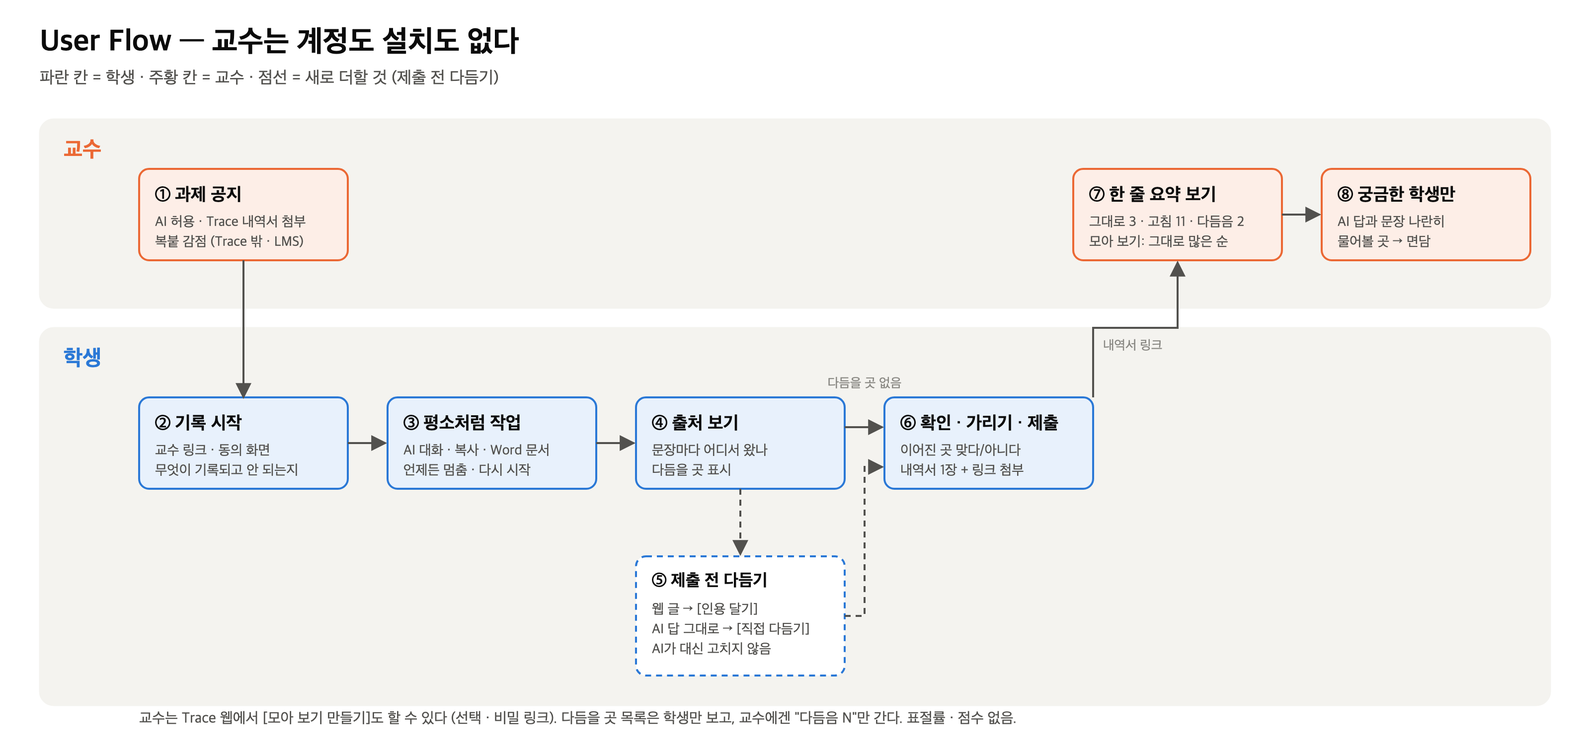
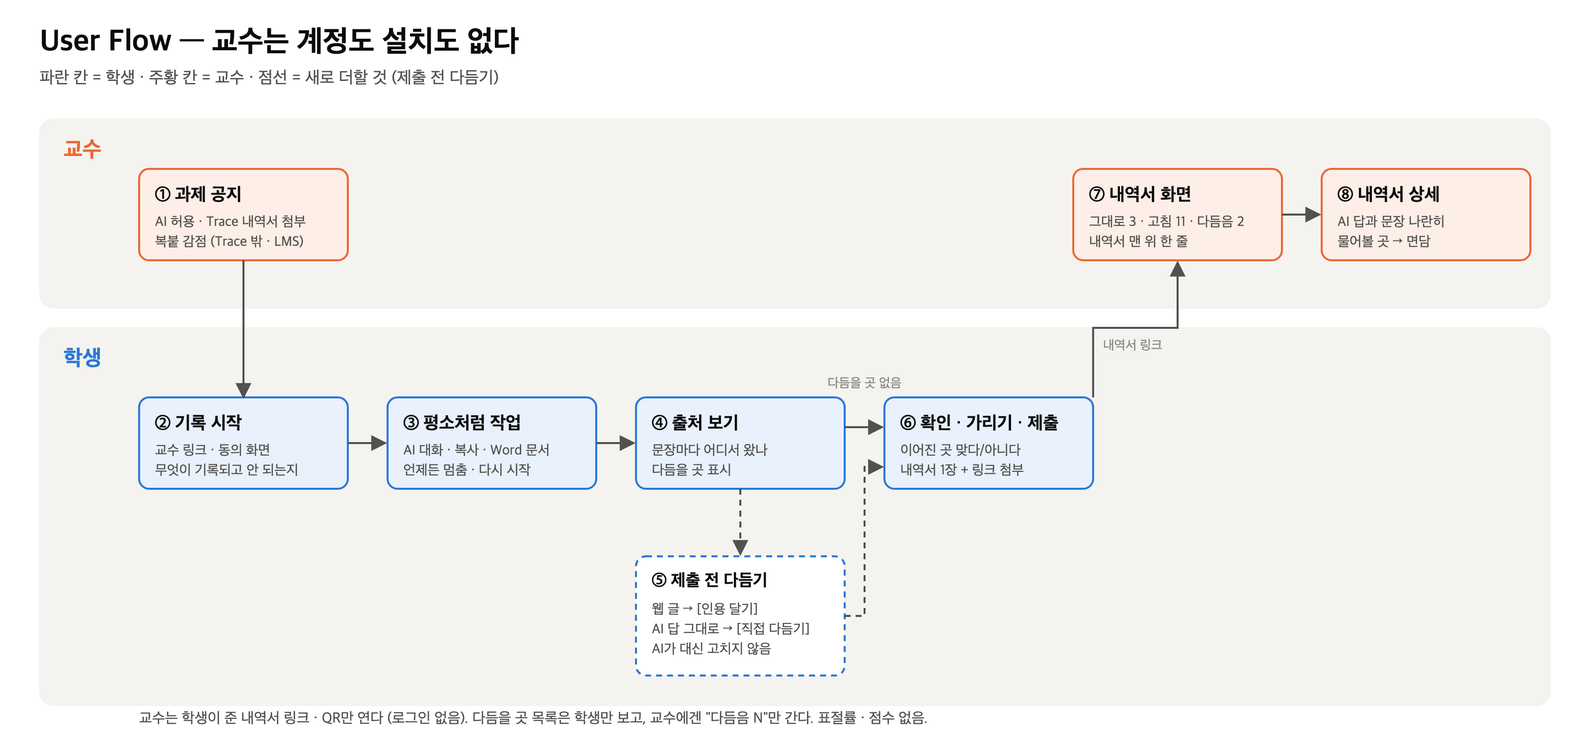
모아 보기를 다음 단계로 · 교수 화면 = 내역서 화면 · 내역서 상세
- 교수는 학생이 준 내역서 링크 · QR을 하나씩 엶 (LMS 연동 불필요, 모아 보기는 과제 링크 방식으로 설계만)
- 검토 과업 P1(링크 만들기) 빼고 P1~P5로 · 가짜 데이터 5명
- ERD: assignments · works.assignment_id 점선(다음 단계) · User Flow · 구조도 글자

diff --git a/2-디자인/발표 그림/figs.py b/2-디자인/발표 그림/figs.py
@@ -62,8 +62,8 @@ def user_flow():
 
     # 교수
     b += step(140, 170, "①", "과제 공지", ["AI 허용 · Trace 내역서 첨부", "복붙 감점 (Trace 밖 · LMS)"], ORANGE, ORANGE_BG)
-    b += step(1080, 170, "⑦", "한 줄 요약 보기", ["그대로 3 · 고침 11 · 다듬음 2", "모아 보기: 그대로 많은 순"], ORANGE, ORANGE_BG)
-    b += step(1330, 170, "⑧", "궁금한 학생만", ["AI 답과 문장 나란히", "물어볼 곳 → 면담"], ORANGE, ORANGE_BG)
+    b += step(1080, 170, "⑦", "내역서 화면", ["그대로 3 · 고침 11 · 다듬음 2", "내역서 맨 위 한 줄"], ORANGE, ORANGE_BG)
+    b += step(1330, 170, "⑧", "내역서 상세", ["AI 답과 문장 나란히", "물어볼 곳 → 면담"], ORANGE, ORANGE_BG)
     # 학생
     y1 = 400
     b += step(140, y1, "②", "기록 시작", ["교수 링크 · 동의 화면", "무엇이 기록되고 안 되는지"], BLUE, BLUE_BG)
@@ -86,7 +86,7 @@ def user_flow():
     b += arrow(1290, 216, 1328, 216)                  # ⑦→⑧
     b += text(1110, 352, "내역서 링크", 13, MUTED)
     # 비고
-    b += text(140, 728, "교수는 Trace 웹에서 [모아 보기 만들기]도 할 수 있다 (선택 · 비밀 링크). 다듬을 곳 목록은 학생만 보고, 교수에겐 \"다듬음 N\"만 간다. 표절률 · 점수 없음.", 15, INK2)
+    b += text(140, 728, "교수는 학생이 준 내역서 링크 · QR만 연다 (로그인 없음). 다듬을 곳 목록은 학생만 보고, 교수에겐 \"다듬음 N\"만 간다. 표절률 · 점수 없음.", 15, INK2)
     return svg(W, H, b)
 
 
@@ -125,7 +125,7 @@ def architecture():
     b += box(820, 300, 360, 250, SURF, INK2, sw=2, r=16)
     b += text(844, 340, "서버", 24, INK, 700)
     b += text(910, 340, "Flask · Render (싱가포르)", 16, INK2)
-    b += lines(844, 378, ["· 로그인 (구글 · 카카오)", "· 해시 다시 계산 → 조작 확인", "· 내역서 PDF (reportlab)", "· 교수 확인 링크 (읽기 전용)", "· 모아 보기 (만들 것)"], 17, INK, 30)
+    b += lines(844, 378, ["· 로그인 (구글 · 카카오)", "· 해시 다시 계산 → 조작 확인", "· 내역서 PDF (reportlab)", "· 교수 확인 링크 (읽기 전용)"], 17, INK, 30)
 
     # DB
     b += box(820, 640, 360, 130, SURF, INK2, sw=2, r=16)
@@ -160,14 +160,22 @@ def architecture():
 # ───────────────────────── 3. ERD ─────────────────────────
 def erd():
     W, H = 1640, 1000
-    b = text(40, 52, "ERD — 지금 테이블에 3가지만 더한다", 30, weight=700)
-    b += text(40, 84, "회색 = 지금 있음 · 파란 칸 = 새로 더함 · 1 ── N = 하나가 여러 개를 가짐", 17, INK2)
+    b = text(40, 52, "ERD — 지금 테이블에 2가지만 더한다", 30, weight=700)
+    b += text(40, 84, "회색 = 지금 있음 · 파란 칸 = 새로 더함 · 점선 = 다음 단계 · 1 ── N = 하나가 여러 개를 가짐", 17, INK2)
     HD, RH, BW = 40, 26, 270
     pos = {}
 
-    def table(key, x, y, name, rows, new=False, new_rows=()):
-        h = HD + RH * (len(rows) + len(new_rows)) + 12
+    def table(key, x, y, name, rows, new=False, new_rows=(), nxt=False, next_rows=()):
+        h = HD + RH * (len(rows) + len(new_rows) + len(next_rows)) + 12
         c = BLUE if new else INK2
+        if nxt:
+            s = box(x, y, BW, h, SURF, MUTED, True, sw=1.5, r=8)
+            s += text(x + 14, y + 27, name, 18, MUTED, 700)
+            s += text(x + BW - 14, y + 27, "다음 단계", 14, MUTED, 700, "end")
+            for i, r in enumerate(rows):
+                s += text(x + 14, y + HD + 20 + i * RH, r, 14, MUTED)
+            pos[key] = (x, y, BW, h)
+            return s
         s = box(x, y, BW, h, SURF, BLUE if new else LINE, sw=2 if new else 1.5, r=8)
         s += f'<rect x="{x}" y="{y}" width="{BW}" height="{HD}" rx="8" fill="{BLUE_BG if new else PANEL}"/>\n'
         s += f'<rect x="{x}" y="{y+HD-8}" width="{BW}" height="8" fill="{BLUE_BG if new else PANEL}"/>\n'
@@ -180,13 +188,16 @@ def erd():
             yy = y + HD + 20 + (len(rows) + j) * RH
             s += f'<rect x="{x+6}" y="{yy-17}" width="{BW-12}" height="{RH-2}" rx="4" fill="{BLUE_BG}"/>\n'
             s += text(x + 14, yy, r + "  (새로)", 14, BLUE, 700)
+        for j, r in enumerate(next_rows):
+            yy = y + HD + 20 + (len(rows) + len(new_rows) + j) * RH
+            s += text(x + 14, yy, r + "  (다음 단계)", 14, MUTED)
         pos[key] = (x, y, BW, h)
         return s
 
     b += table("users", 40, 130, "users 학생", ["id", "email · name", "google_sub · kakao_sub", "deleted_at"])
     b += table("auth", 40, 330, "tokens · devices · login_tickets", ["user_id", "로그인 토큰 · 기기 · 로그인 표"])
-    b += table("assign", 370, 130, "assignments 모아 보기", ["id · title · memo", "submit_token 학생용", "view_token_hash 교수용", "org (비워 둠) · created_at"], new=True)
-    b += table("works", 370, 400, "works 과제", ["id · user_id", "title · ai_scope", "deleted_at"], new_rows=["assignment_id"])
+    b += table("assign", 370, 130, "assignments 모아 보기", ["id · title · memo", "submit_token 학생용", "view_token_hash 교수용", "org (비워 둠) · created_at"], nxt=True)
+    b += table("works", 370, 400, "works 과제", ["id · user_id", "title · ai_scope", "deleted_at"], next_rows=["assignment_id"])
     b += table("sessions", 700, 130, "sessions 기록 한 번", ["id · work_id", "root · head (체인 끝)", "chain_len · integrity_ok", "sealed_at · verified"])
     b += table("events", 1030, 130, "events 기록 이벤트", ["session_id · id · seq", "type · ts", "payload (원문 대신 해시)", "server_h"])
     b += table("bc", 1310, 130, "batches · contexts", ["session_id", "받은 묶음 · 작업 맥락"])
@@ -214,7 +225,7 @@ def erd():
 
     b += rel("users", "auth", "b", "t")
     b += rel("users", "works", "r", "l", 20, -20)
-    b += rel("assign", "works", "b", "t", 0, 0, BLUE)
+    b += rel("assign", "works", "b", "t", 0, 0, MUTED)
     b += rel("works", "sessions", "r", "l", -30, 0)
     b += rel("sessions", "events", "r", "l")
     b += rel("works", "st", "r", "l", 20, 0)
@@ -232,7 +243,7 @@ def erd():
         b += f'<path d="M{tx+tw/2},{ty+th} L{tx+tw/2},730 L{1610},730 L{1610},{ky+kh/2} L{kx+kw},{ky+kh/2}" fill="none" stroke="{INK2}" stroke-width="1.8"/>\n'
         b += text(kx + kw + 4, ky + kh / 2 - 6, "N", 14, INK2, 700)
     b += text(tx + tw / 2 + 6, ty + th + 20, "1", 14, INK2, 700)
-    b += lines(40, 860, ["더하는 것 3가지", "· assignments: 모아 보기. 교수 계정 대신 비밀 토큰이 열쇠", "· works.assignment_id · statements.retain_until (보관 기간)", "· checks: 교수에게 가는 \"다듬음 N\"을 센다. 원문 · 고친 문장은 넣지 않음 (PC에 남음)"], 16, INK2, 26)
+    b += lines(40, 860, ["더하는 것 2가지", "· statements.retain_until: 보관 기간", "· checks: 교수에게 가는 \"다듬음 N\"을 센다. 원문 · 고친 문장은 넣지 않음 (PC에 남음)", "· (다음 단계) assignments · works.assignment_id: 30명 모아 보기"], 16, INK2, 26)
     return svg(W, H, b)
 
 

diff --git a/2-디자인/피그마 화면 구성 (2026-10-29).md b/2-디자인/피그마 화면 구성 (2026-10-29).md
@@ -1,8 +1,8 @@
 # 피그마 화면 구성 — 중간발표 · 팀 내부 검토용
 
 > 기준: 지금 앱 v0.1.13 화면 (`Trace 와이어프레임 (2026-10-19).pdf`) + v2.2 다듬기. 색 · 글꼴은 `디자인 기준 v2.html`.
-> 가짜 데이터는 `팀 내부 검토 키트` 1절과 같게 (이서연 · 김민준 · 박지호 · 최유나 · 정하준 + 25명).
-> ★ = 슬라이드 7 · 8장에 캡처로 들어가는 6개. 나머지는 검토 과업을 끝까지 하려면 필요한 화면.
+> 가짜 데이터는 `팀 내부 검토 키트` 1절과 같게 (이서연 · 김민준 · 박지호 · 최유나 · 정하준).
+> ★ = 슬라이드 7 · 8장에 캡처로 들어가는 5개. 나머지는 검토 과업을 끝까지 하려면 필요한 화면.
 > **10/31 바뀜 (기획서 v2.2):** 따로 있던 "점검 · 고쳐 쓰기" 단계를 없애고, **출처 보기 화면에 다듬기를 더한다.** 표절 기준 · 참고문헌 확인은 논문용 다음 단계라 피그마에서 뺀다.
 
 ## 0. 학생 단계는 그대로 4개
@@ -10,6 +10,8 @@
 ```
 기록 → 출처 보기 · 다듬기 → 연결 확인 → 내역서
 ```
+
+> **10/31 바뀜 (2):** 30명 모아 보기는 다음 단계. 교수 화면은 **내역서 화면 · 내역서 상세** 2개.
 
 **다듬기는 출처 보기 안에서.** 학생이 다듬을 곳을 먼저 고치고, 고친 뒤의 문장으로 연결을 확인한다. 단계 수가 늘지 않는다.
 
@@ -29,7 +31,7 @@
 ### ★ S-2 출처 보기 · 다듬기 (지금 화면 + 더함) — 과업 S4b · S4c
 ```
 ┌ 문장마다 어디서 왔나: AI 답 그대로 3 · 고침 9 · 웹 글 2 · 쓴 과정 기록 없음 0 · 출처 기록 없음 92 ─────────┐
-│ 다듬을 곳 3  [모아 보기]                                    다듬음 0 → 3                        │
+│ 다듬을 곳 3  [전부 보기]                                    다듬음 0 → 3                        │
 ├──────────────────────────────────────┬───────────────────────────────────────────────────┤
 │ 보고서 (다듬을 곳은 옅은 노랑 밑줄)          │ 이 문장은 ChatGPT 10/18 14:20 답을 그대로 붙였어요.          │
 │                                      │ 그대로 써도 내역서에 공개돼요. (교수님 규칙: 복붙 감점)       │
@@ -51,7 +53,7 @@
 
 ### ★ S-4 제출 전 확인 · 가리기 — 과업 S4 · S5
 - 왼쪽: 내역서에 들어갈 대화 목록 · **친구 전화번호가 있는 대화** → [가리기]
-- 오른쪽: **"교수님께 보이는 모습" 미리보기** (여기서 고른 그대로 P-2가 보임). "다듬음 3"이 보이고, **다듬을 곳 목록은 안 보인다**는 게 드러나야 함
+- 오른쪽: **"교수님께 보이는 모습" 미리보기** (여기서 고른 그대로 P-1 내역서 화면이 보임). "다듬음 3"이 보이고, **다듬을 곳 목록은 안 보인다**는 게 드러나야 함
 - 맨 아래: 보이지 않는 것 한 줄 (가린 내용 · 다른 탭 · 키 내용 · 화면 · 다듬을 곳 목록)
 - 버튼: [내역서 만들기] → 완료 화면 (PDF · 교수 링크 복사)
 
@@ -59,29 +61,21 @@
 
 ## 2. 교수 화면 (웹 · 1440 × 900 · 로그인 없음)
 
-### P-0 모아 보기 만들기 — 과업 P1
-- 입력: 과제 제목 · 메모(허용 범위)
-- 결과 **링크 2개를 확실히 다르게**: 🔗 학생에게 보낼 **제출 링크** (공지에 붙이기) / 🔒 교수용 **보기 링크** ("다른 사람에게 보내지 마세요")
+교수는 학생이 준 **내역서 링크 · QR을 하나씩 연다.** 30명 모아 보기는 다음 단계라 그리지 않는다.
 
-### ★ P-1 모아 보기 30명 — 과업 P2
-| 학생 | 그대로 쓴 곳 | 고친 곳 | 다듬음 | 쓴 과정 기록 없음 | 직접 타이핑 (이어진 AI 없음) | 쓴 AI |
-|---|---|---|---|---|---|---|
-- 정렬은 **2개만**: [그대로 쓴 곳 많은 순] (기본) / [쓴 과정 기록 없음 많은 순]
-- "쓴 과정 기록 없음"은 회색 빗금 칸, "직접 타이핑"은 흰 칸 → 둘이 절대 같은 모양이면 안 됨
-- "다듬음"은 좋은 쪽 숫자 — 강조하지 않고 그냥 숫자로
-- 점수 · 등급 · 표절률 · 빨간 표시 없음. 행을 누르면 P-2
-- 비교용으로 **PDF 낱장 30개 버전**도 하나 (기존 내역서 PDF 캡처를 줄 세워 둔 프레임) — P2 시간 재기용
-
-### ★ P-2 학생 한 명 내역서 (맨 위 한 줄) — 과업 P3 · P5 · P6
-- 맨 위 한 줄 (가장 크게): **그대로 7 · 고침 2 · 쓴 과정 기록 없음 0자 · 다듬음 0** + "✓ 서버 기록과 일치"
+### ★ P-1 내역서 화면 — 과업 P1 · P2 · P4 · P5
+- 지금 앱의 교수 링크 화면(와이어프레임 5번 "AI 활용 내역서")을 바탕으로
+- **맨 위 한 줄 (가장 크게):** 그대로 7 · 고침 2 · 쓴 과정 기록 없음 0자 · 다듬음 0 + "✓ 서버 기록과 일치"
 - 그 아래 접힌 칸: 학생 설명 2개 · 작업 시간 · 쓴 AI
-- 문단 목록 (색 띠): 그대로 / 고침 / 쓴 과정 기록 없음 (빗금) / 직접 타이핑 (흰색) · 다듬은 문장엔 작은 "제출 전 직접 다듬음"
+- 문단 목록 (색 띠): 그대로 / 고침 / 쓴 과정 기록 없음 (회색 빗금) / 직접 타이핑 (흰색) · 다듬은 문장엔 작은 "제출 전 직접 다듬음"
 - 김민준 5번째 문단 옆 **작성 모양** (회색 글씨 · 아이콘 없음): "4분 동안 2초 넘게 멈춘 적 없음 · 고침 0회 · 한 번에 1,100자"
 - 박지호: "열 때부터 있던 글 1,200자 · 쓴 과정 기록 없음 — 출처를 알 수 없어요"
 - 맨 아래 **물어볼 곳** 2~3개 (예: "5번째 문단은 어떻게 썼나요?")
 - 와이어프레임의 **"그대로 (96%)"**는 가져오지 않는다 → "그대로"만
+- **5명 분** (김민준 · 박지호 · 이서연 · 최유나 · 정하준) 프레임을 만든다 — 과업 P1에서 하나씩 열어 본다
 
-### ★ P-3 나란히 보기 — 과업 P4
+### ★ P-2 내역서 상세 (나란히 보기) — 과업 P3
+- P-1에서 문단을 누르면 열림
 - 왼쪽 보고서 문장 · 오른쪽 AI 답 원문, 같은 부분 같은 색
 - 위: 질문 원문 · 도구 · 시각 · "기록과 일치"
 - 아래: 들어온 길 (14:21 ChatGPT에서 복사 → 14:22 Word 3문단에 붙여넣기 → 14:25 한 단어 고침)
@@ -97,22 +91,21 @@
 | S-2 | 웹 글 [인용 달기] · AI 답 [직접 다듬기] ×2 | 상태 바뀜 · 위 숫자 "다듬음 0 → 1 → 2 → 3" |
 | S-3 | 틀린 연결 [아니다] | 그 줄이 "아니다"로 |
 | S-4 | 친구 번호 대화 [가리기] → [내역서 만들기] | 완료 화면 |
-| P-0 | [만들기] | 링크 2개 |
-| P-1 | 정렬 버튼 · 김민준 행 | 순서 바뀜 · P-2 |
-| P-2 | 3번째 문단 | P-3 |
+| P-1 | 김민준 3번째 문단 | P-2 |
+| P-2 | [← 내역서] | P-1 |
 
 ## 4. 화면마다 원칙 확인 (검토 키트 체크리스트)
 
 - [ ] 점수 · 퍼센트 · 표절률 · 등급처럼 보이는 것이 없다 (와이어프레임의 "96%"를 가져오지 않았나)
-- [ ] "쓴 과정 기록 없음"과 "직접 타이핑"이 다르게 보인다 (S-2 · P-1 · P-2)
+- [ ] "쓴 과정 기록 없음"과 "직접 타이핑"이 다르게 보인다 (S-2 · P-1)
 - [ ] 다듬을 곳이 "걸림" · 빨간색 · 경고로 보이지 않는다 · AI가 대신 고치는 버튼이 없다 (S-2)
 - [ ] 다듬을 곳 목록은 교수에게 안 간다는 게 학생에게 보인다 (S-4)
-- [ ] 작성 모양이 경고처럼 보이지 않는다 (P-2)
+- [ ] 작성 모양이 경고처럼 보이지 않는다 (P-1)
 - [ ] 학생 화면이 감시처럼 보이지 않는다 (S-0 · S-1)
 
 ## 만드는 순서 (내일 ~ 4일째)
 
-1. **S-2 다듬기**, **P-1 모아 보기**, **P-2 한 줄** 먼저 — 바뀌는 화면이고 발표 핵심
-2. S-0 · S-4 · P-0 · P-3
+1. **S-2 다듬기**, **P-1 내역서 화면** 먼저 — 바뀌는 화면이고 발표 핵심
+2. S-0 · S-4 · P-2
 3. S-1 · S-3은 지금 화면 캡처 그대로
 4. 프로토타입 연결 → 검토 1회차

diff --git a/2-디자인/팀 내부 검토 키트 (2026-10-28).md b/2-디자인/팀 내부 검토 키트 (2026-10-28).md
@@ -10,7 +10,7 @@
 
 **과제:** 디지털 회로 설계 보고서 (중간고사 대체) · 교수 공지: "AI 허용. 복붙하면 감점. 기록 전부터 있던 글이 있으면 감점."
 
-**모아 보기 목록 30명** — 아래 5명은 반드시 넣는다.
+**학생 5명의 내역서** (교수는 하나씩 연다 · 모아 보기는 다음 단계)
 
 | 학생 | 그대로 쓴 곳 | 고친 곳 | 쓴 과정 기록 없음 | 직접 타이핑 (이어진 AI 없음) | 쓴 AI | 함정 |
 |---|---|---|---|---|---|---|
@@ -28,7 +28,7 @@
 
 ---
 
-## 2. 과업 13개
+## 2. 과업 12개
 
 | # | 시키는 말 | 성공 |
 |---|---|---|
@@ -39,12 +39,11 @@
 | S4b | 출처 보기에서 다듬을 곳 3개를 처리해. 웹 글은 출처 달고, AI 답은 네 말로 다듬어 | ①은 인용 달기 · ②③은 직접 다듬기 → "다듬음 3" 으로 바뀜 |
 | S4c | (말로) 교수님께는 다듬기 결과가 어떻게 보일 것 같아? 감점이야? | "다듬음 3"만 보이고 다듬을 곳 목록은 안 간다고 답함 · 감점 · 단속으로 오해하지 않음 |
 | S5 | (말로) 교수님 화면엔 뭐가 보이고 뭐가 안 보일 것 같아? | 가린 내용·다른 탭·키 내용·화면은 안 보인다고 답함 |
-| P1 | 30명 제출물을 한 화면에 모아 볼 링크를 만들어 | 학생용·교수용 링크 2개를 구분함 |
-| P2 | 30명 중 먼저 볼 3명 골라 (**PDF 낱장 버전 · 모아 보기 버전 둘 다**, 시간 재기) | 김민준·박지호 포함, **이서연·최유나 안 고름** |
-| P3 | 김민준 열고 그대로 쓴 곳 몇 군데인지 말해 (**10초**) | "7" |
-| P4 | 김민준 세 번째 문단이 진짜 AI 답 그대로인지 원래 답과 비교해 | 나란히 보기를 찾음 |
-| P5 | (말로) 박지호의 "쓴 과정 기록 없음 1,200자", 최유나의 "AI 없음 · 전부 직접 타이핑"은 각각 무슨 뜻이야? | 둘 다 **단정하지 않음** (박지호 = 출처 모름 · 최유나 = 판정 안 함) |
-| P6 | (말로) 김민준 5번째 문단 옆 "4분 동안 멈춤 없음 · 고침 0회"는 무슨 뜻이야? 어떻게 할래? | "옮겨 쳤을 수 있으니 물어볼 곳" — **"AI로 썼다"로 단정하지 않음** · 판정 점수로 읽지 않음 |
+| P1 | 5명 내역서를 하나씩 열어서 먼저 면담할 2명 골라 (시간 재기) | 김민준 · 박지호, **이서연 · 최유나 안 고름** |
+| P2 | 김민준 열고 그대로 쓴 곳 몇 군데인지 말해 (**10초**) | "7" |
+| P3 | 김민준 세 번째 문단이 진짜 AI 답 그대로인지 원래 답과 비교해 | 내역서 상세(나란히 보기)를 찾음 |
+| P4 | (말로) 박지호의 "쓴 과정 기록 없음 1,200자", 최유나의 "AI 없음 · 전부 직접 타이핑"은 각각 무슨 뜻이야? | 둘 다 **단정하지 않음** (박지호 = 출처 모름 · 최유나 = 판정 안 함) |
+| P5 | (말로) 김민준 5번째 문단 옆 "4분 동안 멈춤 없음 · 고침 0회"는 무슨 뜻이야? 어떻게 할래? | "옮겨 쳤을 수 있으니 물어볼 곳" — **"AI로 썼다"로 단정하지 않음** · 판정 점수로 읽지 않음 |
 
 ---
 
@@ -56,7 +55,7 @@
 3. 그게 원하는 일을 한다는 걸 **알 수 있나?**
 4. 누른 뒤 **됐다는 걸 알 수 있나?**
 
-**② 5초 보고 말하기** — 교수 모아 보기 · 학생 한 명 화면을 각각 5초 보여 주고 가린 뒤: "무엇이 기억나? 이 학생은 어떤 상태야?"
+**② 5초 보고 말하기** — 교수 내역서 화면 · 학생 다듬기 화면을 각각 5초 보여 주고 가린 뒤: "무엇이 기억나? 이 학생은 어떤 상태야?"
 → 그대로 쓴 곳 숫자가 안 나오면 실패.
 
 **③ 체크리스트** — 화면마다 표시
@@ -74,7 +73,7 @@
 
 ## 4. 한 회차 순서 (약 1시간)
 
-1. **(20분)** A가 과업 S1~S5 (S4b · S4c 포함), B가 지켜보며 적기 → 바꿔서 B가 P1~P6, A가 적기
+1. **(20분)** A가 과업 S1~S5 (S4b · S4c 포함), B가 지켜보며 적기 → 바꿔서 B가 P1~P5, A가 적기
 2. **(10분)** 각자 ②③을 따로
 3. **(15분)** 문제 합치기 → 아래 표에 심각도
 4. **(15분)** 고칠 것 **3~5개만** 정하고 나눠 갖기
@@ -100,8 +99,8 @@
 |---|---|---|---|
 | 찾은 문제 수 (심각도 3 / 2 / 1) | | | |
 | 고친 문제 수 | | | |
-| P2 3명 고르기 시간: PDF 낱장 / 모아 보기 | 초 / 초 | 초 / 초 | 초 / 초 |
-| P3 10초 안에 맞힘 | ○ / ✕ | | |
+| P1 2명 고르기 시간 | 초 | 초 | 초 |
+| P2 10초 안에 맞힘 | ○ / ✕ | | |
 | ③ 원칙 체크 3개 중 통과 | /3 | /3 | /3 |
 
 **발표에서 말할 것:** 실제 사용자 테스트가 아닌 **팀 내부 검토**였다는 점, 그래서 둘 다 서비스를 너무 잘 안다는 한계가 있다는 점, 12주에 실제 학생·교수 테스트를 한다는 점.

diff --git a/1-기획/9-중간발표 슬라이드 뼈대 (2026-10-29).md b/1-기획/9-중간발표 슬라이드 뼈대 (2026-10-29).md
@@ -93,8 +93,8 @@
 ## 8. 프로토타입 ② 교수 + 팀 내부 검토 결과
 
 - **하고 싶은 말:** 3회 검토하면서 이렇게 깎았다. 교수가 10초 안에 복붙 개수를 찾는다.
-- 피그마 캡처: 내역서 맨 위 한 줄 · 모아 보기 30명 · 나란히 보기
-- 검토 결과 (키트 6절 표에서): 찾은 문제 수 → 고친 수 · 3명 고르기 시간 (PDF 낱장 vs 모아 보기) · 고치기 전/후 캡처 1쌍
+- 피그마 캡처: **내역서 화면** (맨 위 한 줄) · **내역서 상세** (나란히 보기)
+- 검토 결과 (키트 6절 표에서): 찾은 문제 수 → 고친 수 · 5명 중 먼저 볼 2명 고르기 시간 · 10초 안에 그대로 쓴 곳 찾기 · 고치기 전/후 캡처 1쌍
 - 원칙: "쓴 과정 기록 없음"과 "직접 타이핑"을 다르게 보이게 · 점수 · 등급 없음
 - 한계 한 줄: 실제 사용자 테스트가 아니라 팀 내부 검토 → 12주에 실제 학생 · 교수
 - **그림:** 캡처 2장 + 전/후 1쌍 + 숫자 표
@@ -114,14 +114,14 @@
 
 ## 10. 데이터베이스 설계 (ERD)
 
-- **하고 싶은 말:** 지금 테이블에 모아 보기 · 다듬기 · 보관 기간만 더하면 된다.
+- **하고 싶은 말:** 지금 테이블에 다듬기 · 보관 기간만 더하면 된다. (모아 보기는 다음 단계)
 - 지금 관계:
   - `users` 1─N `works` 1─N `sessions` 1─N `events` · `batches` · `contexts`
   - `works` 1─N `statements` 1─N `messages` · `links` · `redactions` · `shares`
   - `users` 1─N `tokens` · `devices` · `login_tickets`
 - 더할 것 (9.5절 + 다듬기):
-  - `assignments` (새로): 제목 · 메모 · 학생용 제출 토큰 · 교수용 보기 토큰(해시) · `org`(비움)
-  - `works.assignment_id` · `statements.retain_until`
+  - `statements.retain_until` (보관 기간)
+  - (다음 단계 · 점선) `assignments` 모아 보기 · `works.assignment_id`
   - `checks` (새로): `statement_id` · 문장 위치 · 종류(AI 답 그대로 · 출처 없는 웹 글) · 처리(직접 다듬음 · 인용 달음 · 그대로 둠) — **원문은 넣지 않는다**
 - **그림:** ERD (지금 = 회색 · 더할 것 = 색)
 
@@ -131,7 +131,7 @@
 
 - **하고 싶은 말:** 이미 돌아가는 v0.1.13 위에 다듬기를 더한다. 어려운 곳은 미리 안다.
 - 일정 (13절): 중간발표 → 2주 제출 전 다듬기 · 한 줄 요약 · 실사용 전 필수 → 12주 실제 테스트 → 13주 수정 → 14주 발표
-- R&R: 김용현 = 서버 · 교수 화면 · 모아 보기 · **제출 전 다듬기** · 교수 인터뷰 / 박상진 = 기록기 · 확장 · 학생 인터뷰
+- R&R: 김용현 = 서버 · 교수 화면(내역서) · **제출 전 다듬기** · 교수 인터뷰 / 박상진 = 기록기 · 확장 · 학생 인터뷰
 - 예상 문제 → 해결:
   - 말을 다 바꿔 쓴 문장은 출처 잇기가 못 잇는다 (`match.py` 시험) → "출처 기록 없음"으로 두고 "직접 썼다"고 단정하지 않음 · 웹 글 인용 표시 찾기는 따옴표 · 각주 · (저자, 연도)부터
   - 열어 본 페이지 본문 읽기 = 감시처럼 보임 → 동의 화면에서 따로 켜고 끄기 · 메신저 · 메일 제외
@@ -149,7 +149,7 @@
 | 무엇 | 쓰는 장 | 누가 |
 |---|---|---|
 | 피그마 학생 화면: 알약 창 · **다듬기 화면** · 가리기 | 7 | |
-| 피그마 교수 화면: 한 줄 요약 · 모아 보기 · 나란히 보기 | 8 | |
+| 피그마 교수 화면: 내역서 화면 · 내역서 상세 | 8 | |
 | 내부 검토 3회차 숫자 · 전/후 캡처 | 8 | 둘 다 |
 | User Flow 그림 | 6 | ✅ `2-디자인/발표 그림/1-user-flow` |
 | 아키텍처 · 데이터 흐름 그림 | 9 | ✅ `2-architecture` |
@@ -163,7 +163,7 @@
 | 기록 · 출처 잇기 | ✅ | ✅ | ✅ | ✅ | `events` · `links` |
 | 제출 전 다듬기 | ✅ | ✅ | ✅ | ✅ | `checks` |
 | 가리기 · 공개 범위 | ✅ | ✅ | ✅ | ✅ | `redactions` · `shares` |
-| 한 줄 요약 · 모아 보기 | ✅ | ✅ | ✅ | ✅ | `assignments` |
+| 내역서 한 줄 요약 | ✅ | ✅ | ✅ | ✅ | `statements.summary` |
 
 ## 발표에서 말하지 말 것
 

diff --git a/1-기획/10-박상진 전달 - 기획 변동 (2026-10-31).md b/1-기획/10-박상진 전달 - 기획 변동 (2026-10-31).md
@@ -56,20 +56,20 @@
 
 | 정한 것 | 너한테 걸리는 곳 |
 |---|---|
-| **교수 계정 없음.** 모아 보기도 비밀 링크가 열쇠 (학생용 제출 링크 · 교수용 보기 링크) | — |
+| **교수 계정 없음.** 학생이 준 내역서 링크 · QR이 열쇠. **30명 모아 보기는 다음 단계** (LMS 연동 없이 과제 링크로 묶는 방식만 설계해 둠) | — |
 | 빈 문서로 시작 설정 없음 → 교수 공지 규칙으로 ("기록 전부터 있던 글 감점") | — |
-| 교수 화면 정렬은 2개만: 그대로 쓴 곳 많은 순(기본) / 쓴 과정 기록 없음 많은 순. 점수 · 등급 없음 | — |
+| 교수 내역서 화면은 **맨 위 한 줄**이 가장 크게. 점수 · 등급 없음 (모아 보기가 생기면 정렬은 그대로 쓴 곳 / 기록 없음 2개만) | — |
 | **"쓴 과정 기록 없음"(`noproc`)과 "출처 기록 없음 · 직접 타이핑"(`none`)은 반드시 다르게 보이게** | 출처 보기 화면 |
 | **작성 모양: 키 간격(타이밍)은 기록하지 않고 횟수만.** "4분 동안 2초 넘게 멈춘 적 없음 · 고침 0회" 같은 사실 문장으로만 | **기록기** — 멈춤 · 고침을 횟수/구간으로 셀 방법 |
 | **웹 페이지 본문 읽기는 이번 범위에서 뺌** (논문용 다음 단계). 확장은 지금처럼 활성 탭 사이트 이름만 | 확장 — 지금 할 일 없음 |
-| DB에 더할 것: `assignments`(새로) · `works.assignment_id` · `statements.retain_until` · `checks`(새로: 문장 위치 · 종류 · 처리, 원문 없음) | 서버 |
+| DB에 더할 것: `statements.retain_until` · `checks`(새로: 문장 위치 · 종류 · 처리, 원문 없음). `assignments` · `works.assignment_id`는 다음 단계 | 서버 |
 | 피그마는 10/19 와이어프레임에 남은 **"96% 같음" · "직접 씀"**을 가져오지 않기 (실제 앱은 이미 "일치 / 유사" · "출처 기록 없음") | 피그마 |
 
 ## 6. 역할
 
 | | 맡는 것 |
 |---|---|
-| 김용현 | 서버 · 교수 화면 · 모아 보기 · **제출 전 다듬기** · 실사용 전 필수 · 교수 인터뷰 |
+| 김용현 | 서버 · 교수 화면(내역서) · **제출 전 다듬기** · 실사용 전 필수 · 교수 인터뷰 |
 | 박상진 | 기록기 · 확장 · 기록 밖 변경 · 작성 모양 · 학생 인터뷰 |
 
 ## 7. 중간발표 (다음 주) 준비
@@ -77,7 +77,7 @@
 - PDF 10장 내외 + 피그마 링크 · 5분 · 배점: UI/UX 25 · 시스템/DB 25 · 문제 정의 20 · 기능 15 · 개발 계획 15
 - 교수님 말: "기술 난이도보다 UI/UX 테스트를 반복해라. 피그마로 직접 테스트하고 깎아라."
 - 실제 사용자 테스트는 못 하니까 **우리 둘이 3회차 내부 검토** — 만든 사람은 지켜보기만, 과업은 안 만든 사람이 함 (키트 참고)
-- 이미 된 것: 슬라이드 뼈대 11장 · 그림 4개 (User Flow · 시스템 구조 · ERD · 설문) · 피그마 화면 구성 (학생 5 · 교수 4)
+- 이미 된 것: 슬라이드 뼈대 11장 · 그림 4개 (User Flow · 시스템 구조 · ERD · 설문) · 피그마 화면 구성 (학생 5 · 교수 2: 내역서 화면 · 내역서 상세)
 - 남은 것: 피그마 화면 → 검토 3회차 → 캡처 채우기 → 연습
 
 ## 8. 너한테 부탁

diff --git a/1-기획/11-발표 전 역할 분담 (2026-10-31).md b/1-기획/11-발표 전 역할 분담 (2026-10-31).md
@@ -7,9 +7,9 @@
 
 | | 김용현 | 박상진 |
 |---|---|---|
-| **피그마** | 교수 화면 4개: P-0 모아 보기 만들기 · ★P-1 모아 보기 30명 (+ PDF 낱장 비교 프레임) · ★P-2 학생 한 명 한 줄 · ★P-3 나란히 보기 | 학생 화면 5개: S-0 동의 · ★S-1 홈 + 알약 · ★**S-2 출처 보기 · 다듬기** · S-3 연결 확인 · ★S-4 제출 전 가리기 |
-| **프로토타입 연결** | P-0 → P-1 → P-2 → P-3 | S-0 → S-1 → S-2 (다듬음 0→3) → S-3 → S-4 |
-| **검토 때 하는 과업** | 상진 화면으로 **S1 ~ S5** (S4b · S4c 포함) | 용현 화면으로 **P1 ~ P6** |
+| **피그마** | 교수 화면 2개: ★P-1 **내역서 화면** (5명 분) · ★P-2 **내역서 상세 (나란히 보기)** + 상진의 S-2 다듬기 화면 같이 다듬기 (만들기는 상진 · 검토 전까진 의견만) | 학생 화면 5개: S-0 동의 · ★S-1 홈 + 알약 · ★**S-2 출처 보기 · 다듬기** · S-3 연결 확인 · ★S-4 제출 전 가리기 |
+| **프로토타입 연결** | P-1 ↔ P-2 | S-0 → S-1 → S-2 (다듬음 0→3) → S-3 → S-4 |
+| **검토 때 하는 과업** | 상진 화면으로 **S1 ~ S5** (S4b · S4c 포함) | 용현 화면으로 **P1 ~ P5** |
 | **슬라이드** | 1 표지 · 4 콘셉트 · 5 기능 · 범위 · 8 교수 화면 + 검토 결과 · 9 시스템 · 10 ERD · 11 개발 계획 | 2 문제 · 3 인사이트 (설문 그림) · 6 User Flow · 7 학생 화면 |
 | **그 밖** | PDF 합치기 · 디자인 맞추기 · 피그마 링크 제출 | 한글 직접 쓰기 vs 옮겨 치기 비교 (작성 모양 근거 · 되면 11장 한 줄) |
 
@@ -21,12 +21,12 @@
 
 | 날 | 김용현 | 박상진 | 같이 |
 |---|---|---|---|
-| **1일차** | P-1 · P-2 먼저, 그다음 P-0 · P-3 | S-2 다듬기 먼저, 그다음 S-0 · S-4 (S-1 · S-3은 지금 앱 캡처) | 밤: 서로 화면 링크 공유 (보기만, 고치지 않기) |
+| **1일차** | P-1 내역서 화면 (5명 분) → P-2 상세 · 남는 시간에 슬라이드 4 · 5 글 | S-2 다듬기 먼저, 그다음 S-0 · S-4 (S-1 · S-3은 지금 앱 캡처) | 밤: 서로 화면 링크 공유 (보기만, 고치지 않기) |
 | **2일차** | 프로토타입 연결 · 슬라이드 4 · 5 · 9 · 10 글 채우기 | 프로토타입 연결 · 슬라이드 2 · 3 · 6 글 채우기 | **저녁 검토 1회차 (1시간)** → 고칠 것 3~5개 정해 나눔 · 고치기 전 캡처 저장 |
 | **3일차** | 1회차 고치기 · 슬라이드 11 | 1회차 고치기 · 한글 타이핑 비교 | **저녁 검토 2회차 (1시간)** → 고치기 |
 | **4일차** | 오전 3회차 결과로 8장 표 채우기 · PDF 합치기 | 7장 캡처 채우기 | **오전 검토 3회차 (30분, 고친 곳만)** · **오후 5분 연습 2번** (시간 재기) · 제출 |
 
-- 검토 회차마다 키트 5절 문제 목록 · 6절 비교표(문제 수 · P2 3명 고르는 시간 · P3 10초)를 채운다 → 8장 근거
+- 검토 회차마다 키트 5절 문제 목록 · 6절 비교표(문제 수 · P1 2명 고르는 시간 · P2 10초)를 채운다 → 8장 근거
 - 고치기 **전 · 후 캡처 한 쌍**은 꼭 남긴다 (8장)
 
 ## 발표 (제안)
